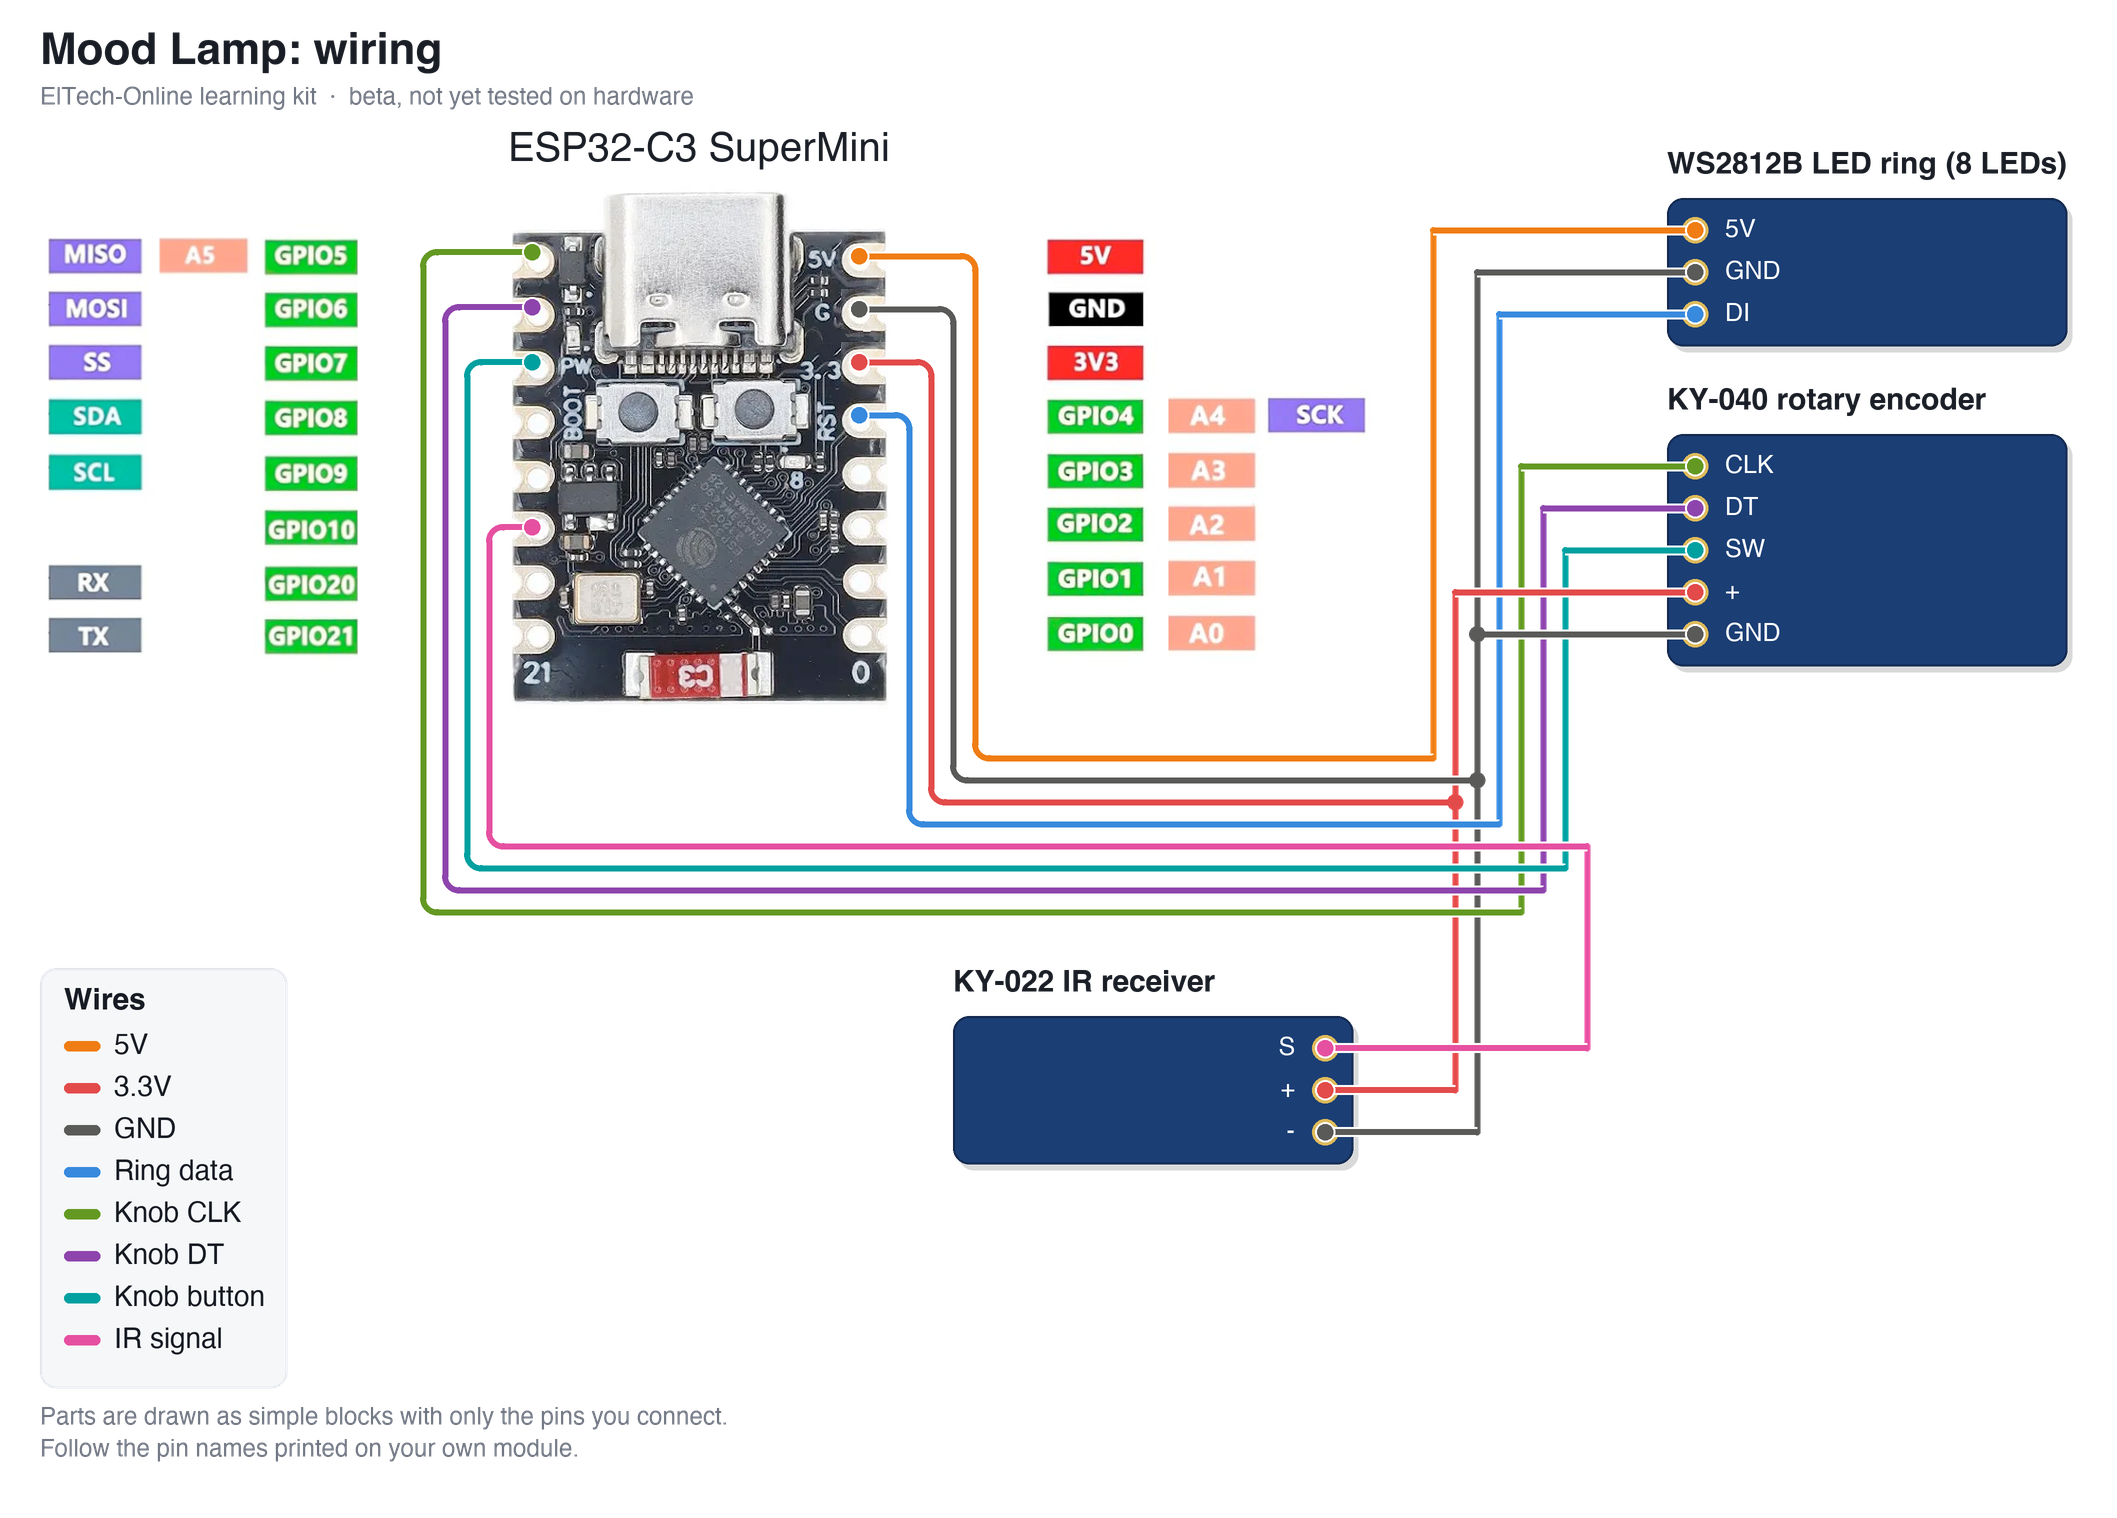
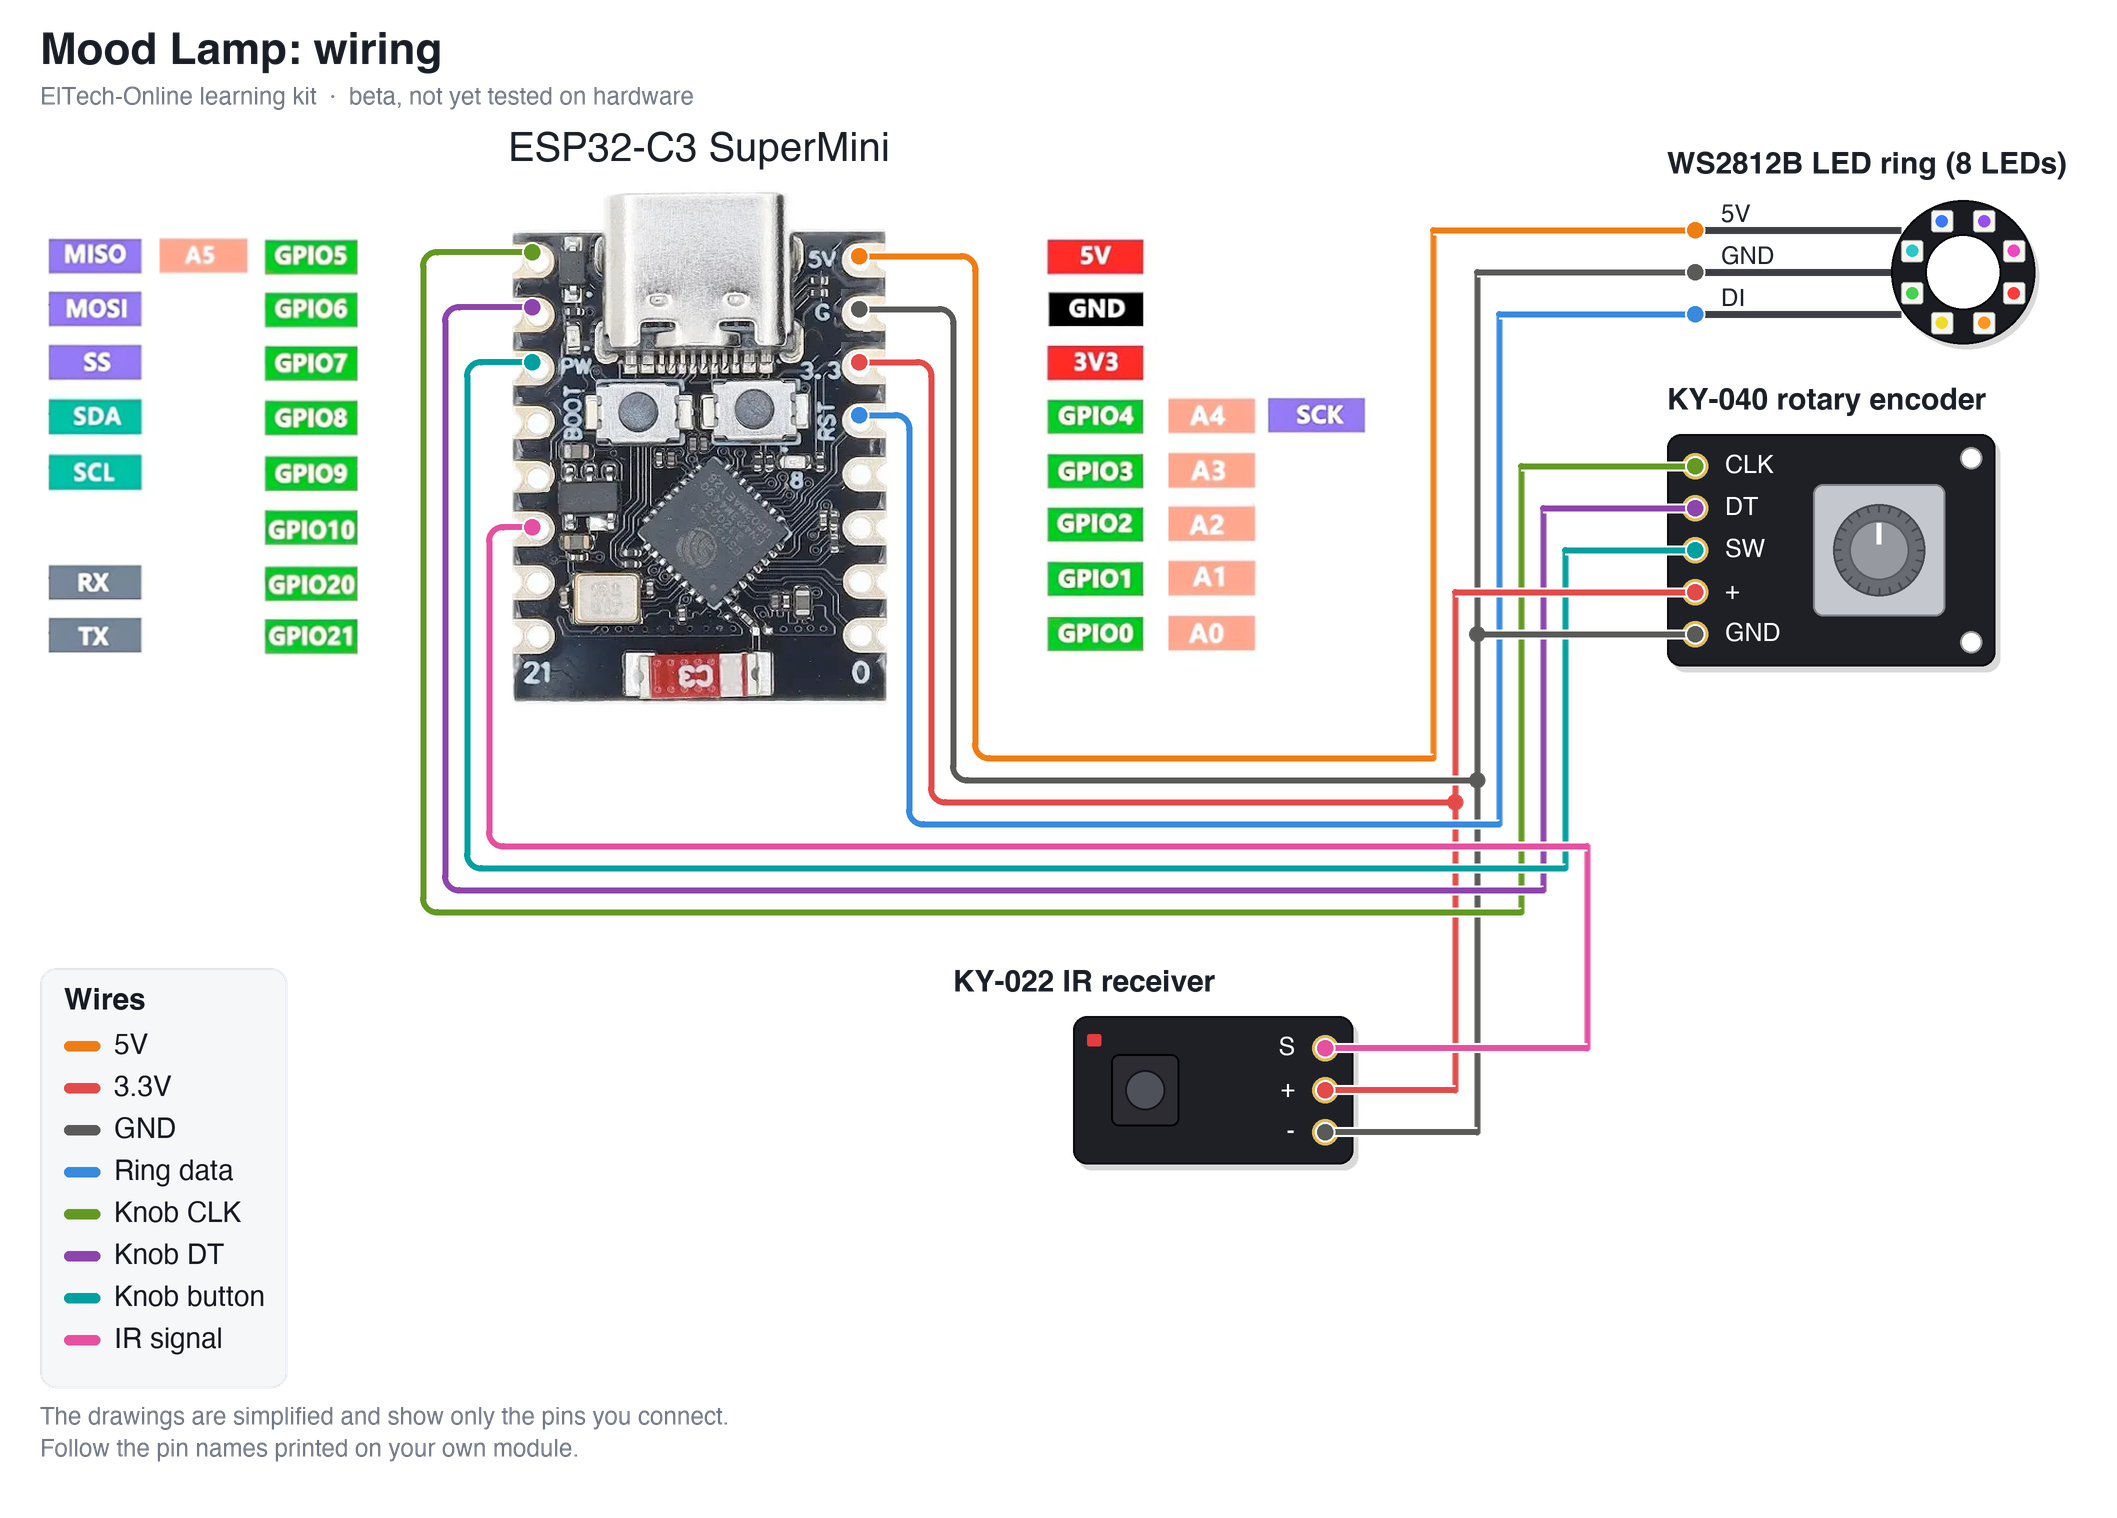
Wiring diagram: draw the parts as pictures instead of plain blocks

diff --git a/README.md b/README.md
@@ -89,7 +89,7 @@ There are **two sketches** in this repo:
 
 ![Wiring diagram: Mood Lamp](wiring_diagram.png)
 
-The parts are drawn as simple blocks showing only the pins you connect. **Always follow the labels printed on your own modules** — the pin order differs between manufacturers.
+The parts are drawn in a simplified way, showing only the pins you connect. **Always follow the labels printed on your own modules** — the pin order differs between manufacturers.
 
 Good to know:
 
